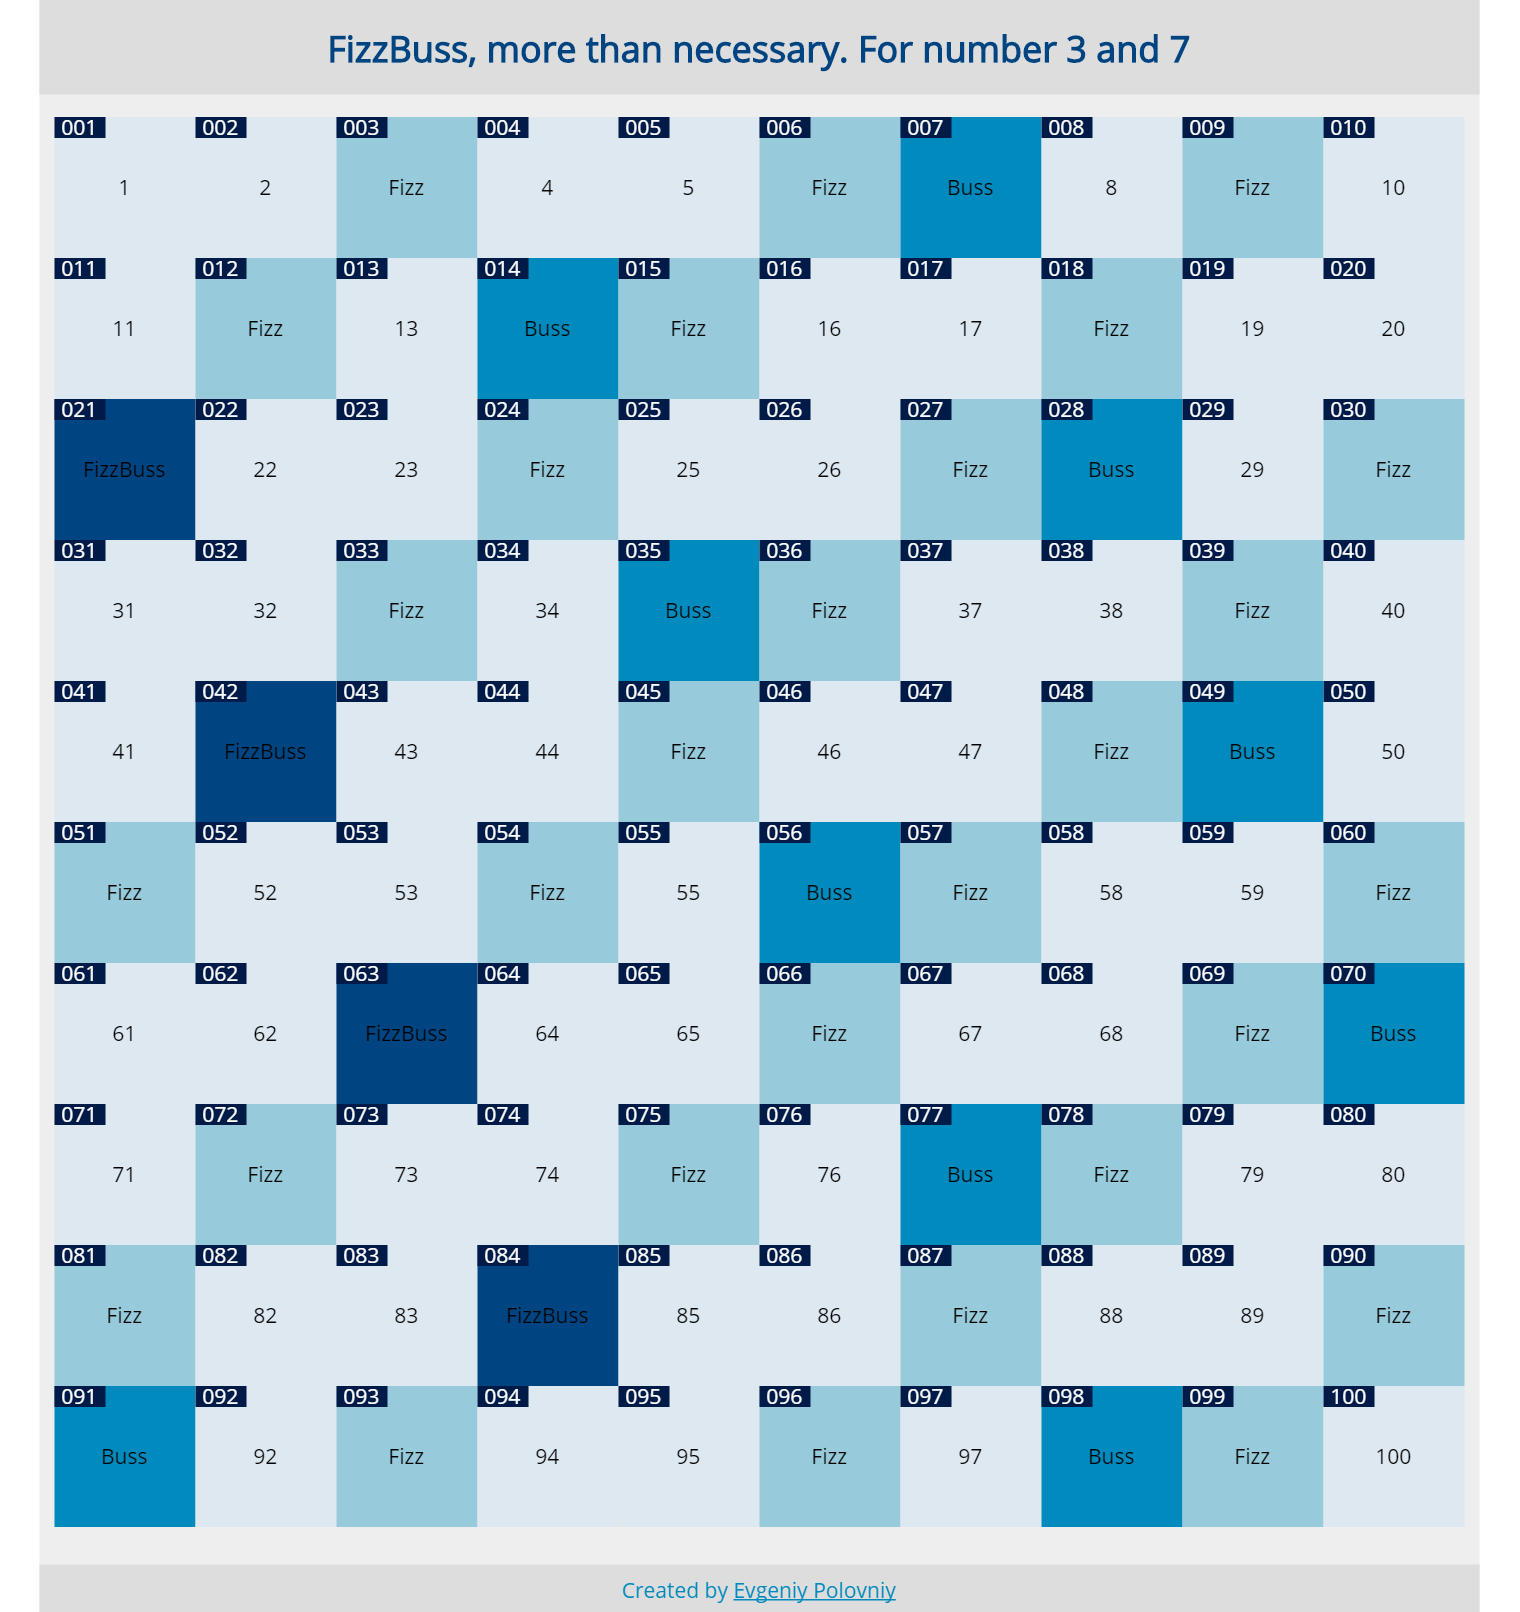
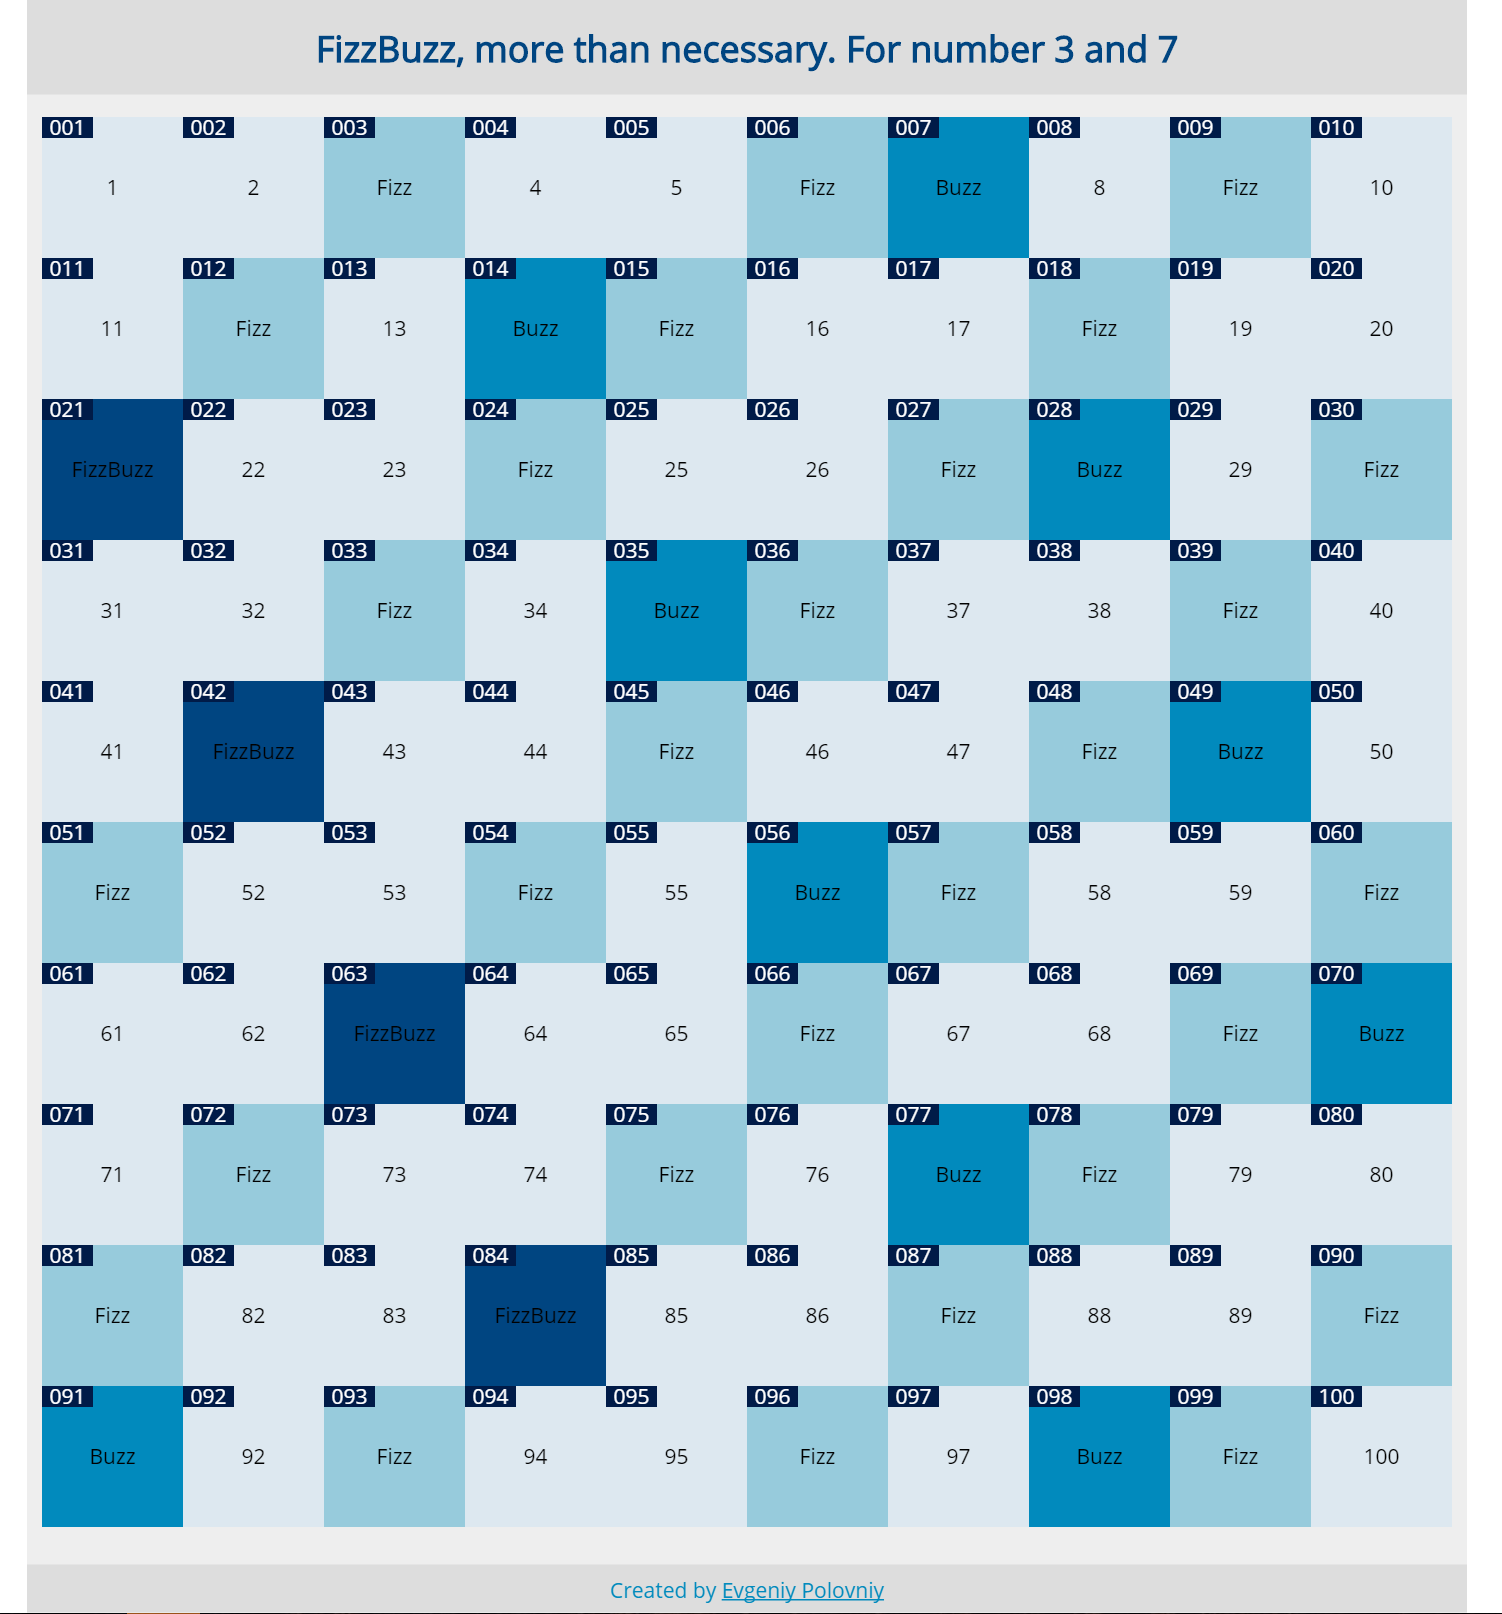
fix

diff --git a/index.html b/index.html
@@ -6,7 +6,7 @@
   <link href='https://fonts.googleapis.com/css?family=Open+Sans&subset=latin,cyrillic' rel='stylesheet' type='text/css'>
   <link rel="stylesheet" href="./css/main.css">
   <script src="https://code.jquery.com/jquery-2.2.1.min.js" integrity="sha256-gvQgAFzTH6trSrAWoH1iPo9Xc96QxSZ3feW6kem+O00=" crossorigin="anonymous"></script>
-  <title>FizzBuss, more than necessary</title>
+  <title>FizzBuzz, more than necessary</title>
 </head>
 <body>
   <div class="content-wraper">

diff --git a/js/main.js b/js/main.js
@@ -10,7 +10,7 @@ window.onload = function () {
     colorOneTwo: '#004581',
     colorItemNum: '#001b48',
     nameOne: 'Fizz',
-    nameTwo: 'Buss',
+    nameTwo: 'Buzz',
     start: 1,
     end: 100
   };
@@ -42,6 +42,6 @@ window.onload = function () {
     }
   }
 
-  $(".title").text('FizzBuss, more than necessary. For number '+option.one+' and '+option.two);
+  $(".title").text('FizzBuzz, more than necessary. For number '+option.one+' and '+option.two);
   makeItems();
 }
